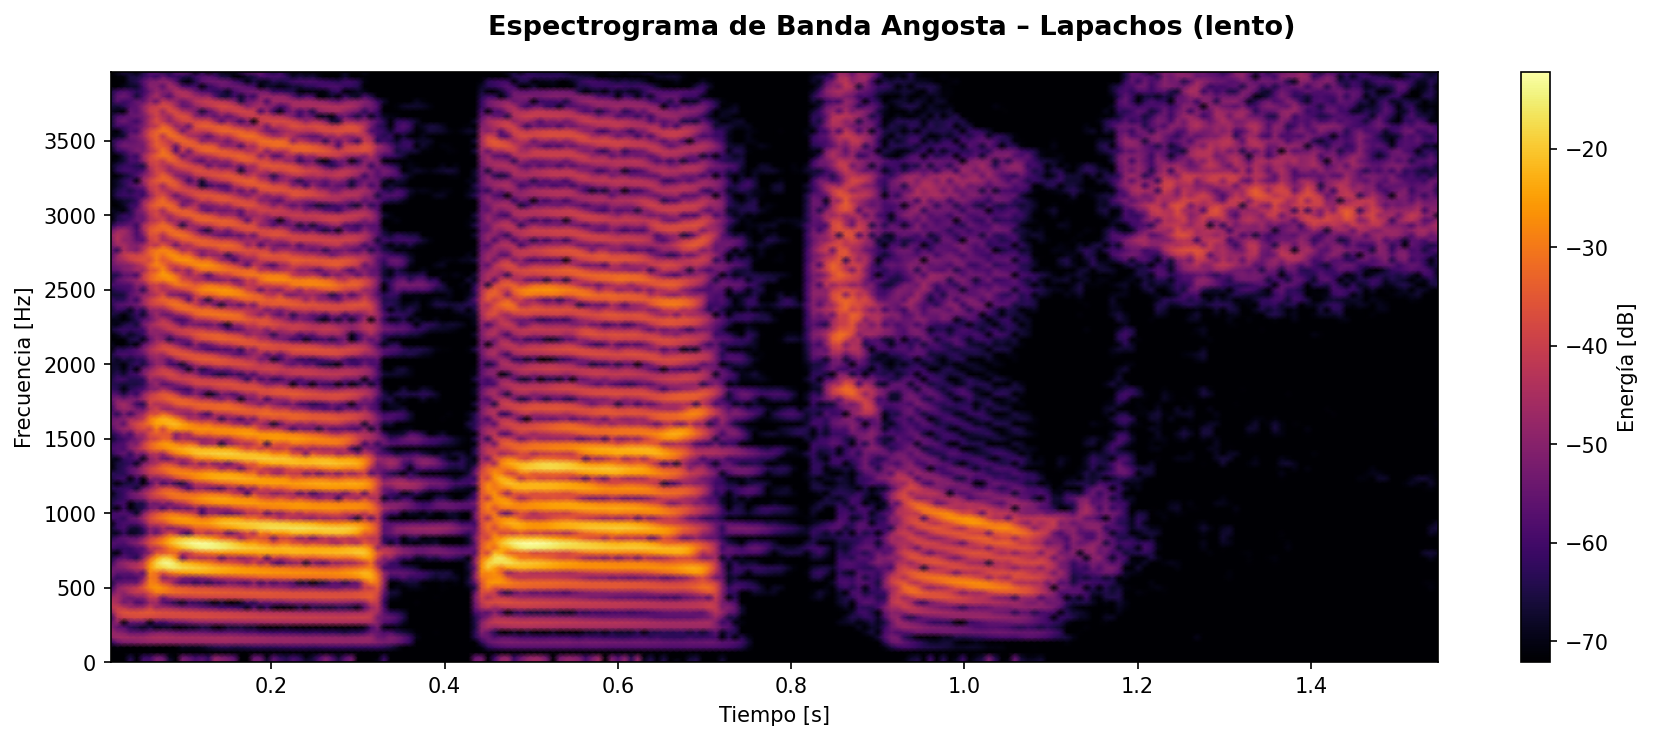
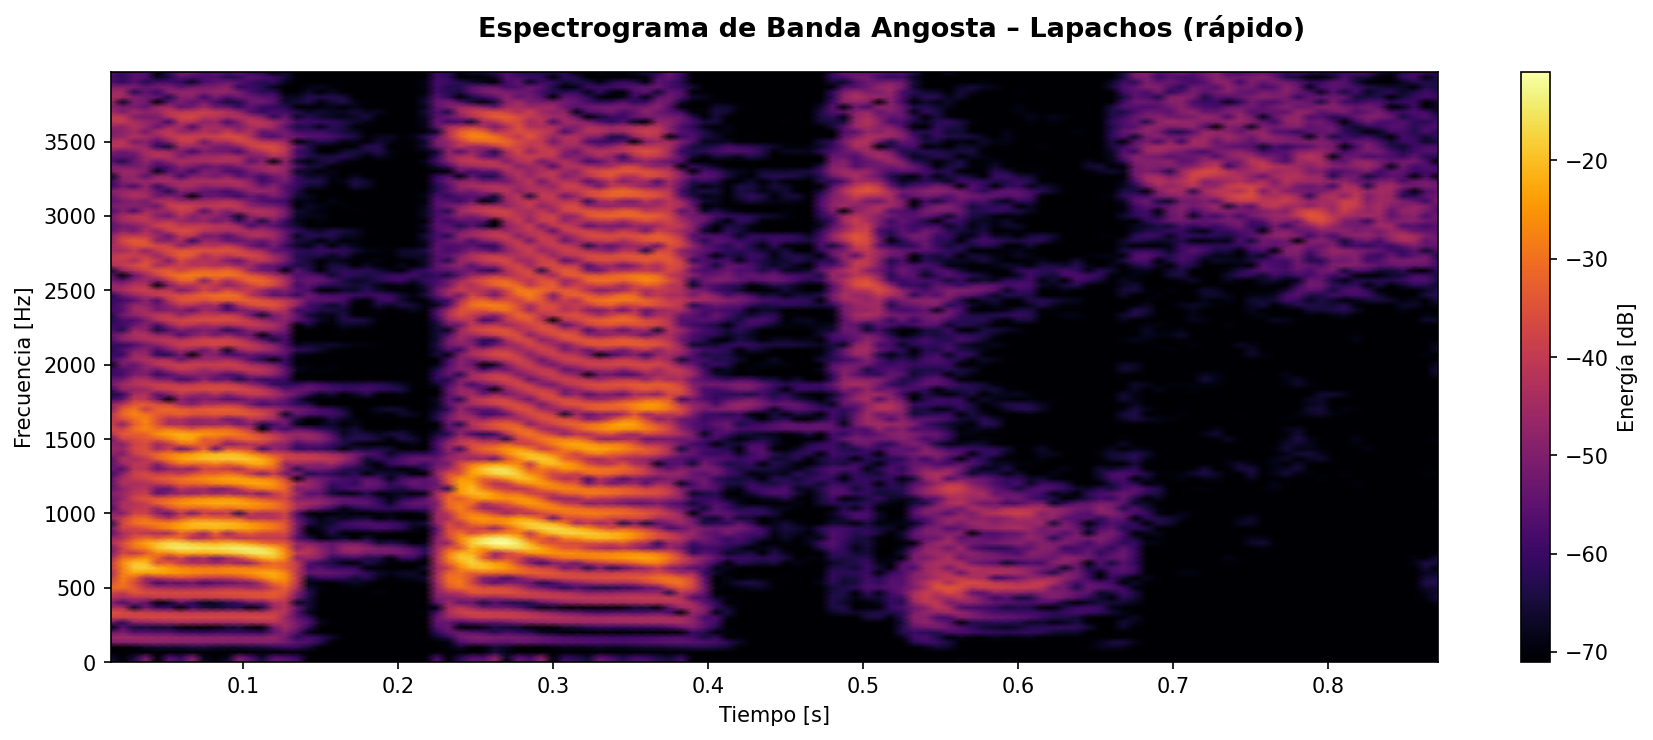
agrego espectogramas de las palabras completas

diff --git a/TP2/Codigos/espectrograma.py b/TP2/Codigos/espectrograma.py
@@ -120,9 +120,9 @@ VOCALES_RAPIDA = [
 
 if __name__ == "__main__":
     plot_espectrograma("lapachos_lento.wav",  "angosta", "Lapachos (lento)")
-    # plot_espectrograma("lapachos_lento.wav",  "ancha",   "Lapachos (lento)")
-    # plot_espectrograma("lapachos_rapido.wav", "angosta", "Lapachos (rápido)")
-    # plot_espectrograma("lapachos_rapido.wav", "ancha",   "Lapachos (rápido)")
+    plot_espectrograma("lapachos_lento.wav",  "ancha",   "Lapachos (lento)")
+    plot_espectrograma("lapachos_rapido.wav", "angosta", "Lapachos (rápido)")
+    plot_espectrograma("lapachos_rapido.wav", "ancha",   "Lapachos (rápido)")
 
     # Ejemplo con segmento y nombre descriptivo
     # plot_espectrograma("lapachos_lento.wav", "angosta", "Vocal [a]", rango_t=[0.5, 1.2])
